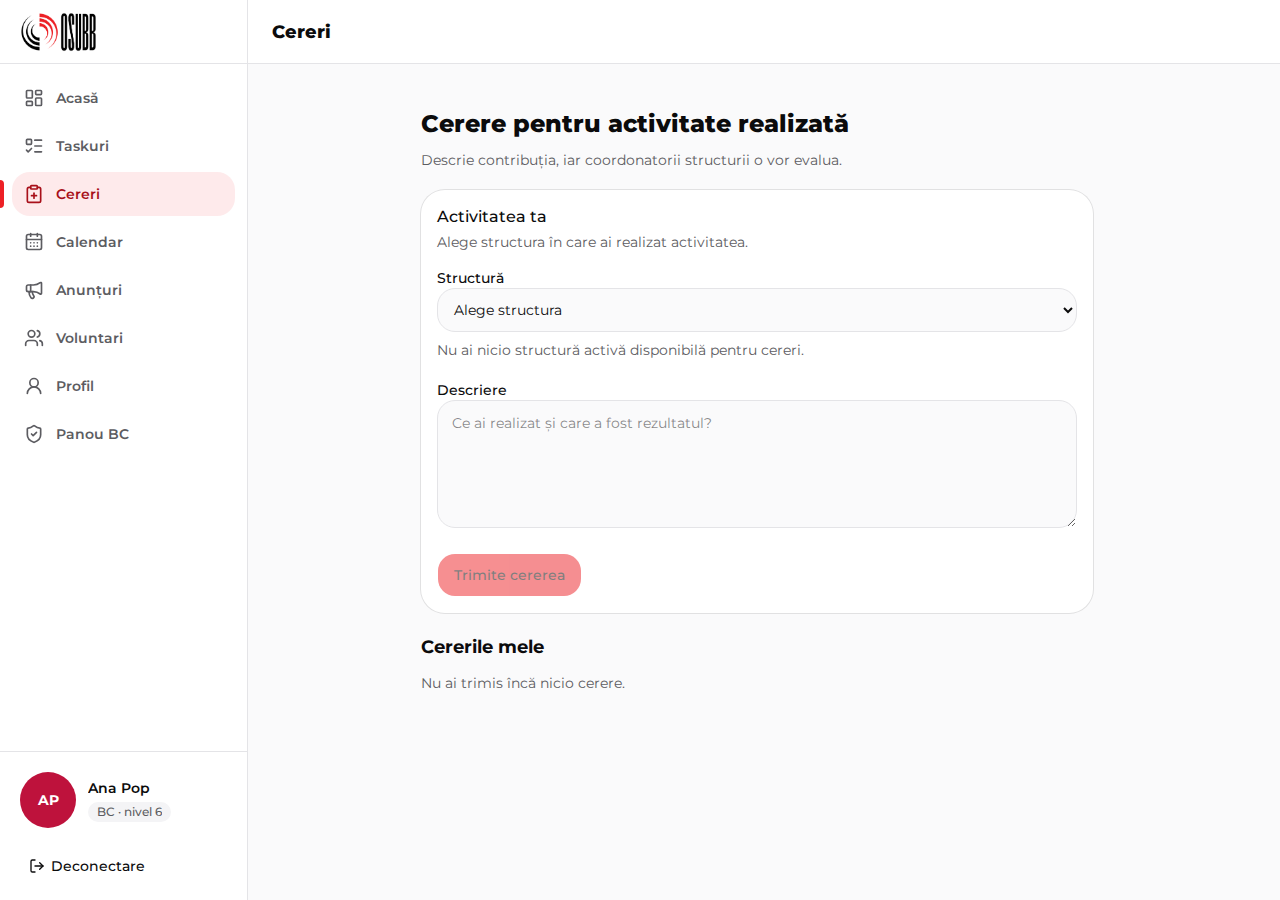
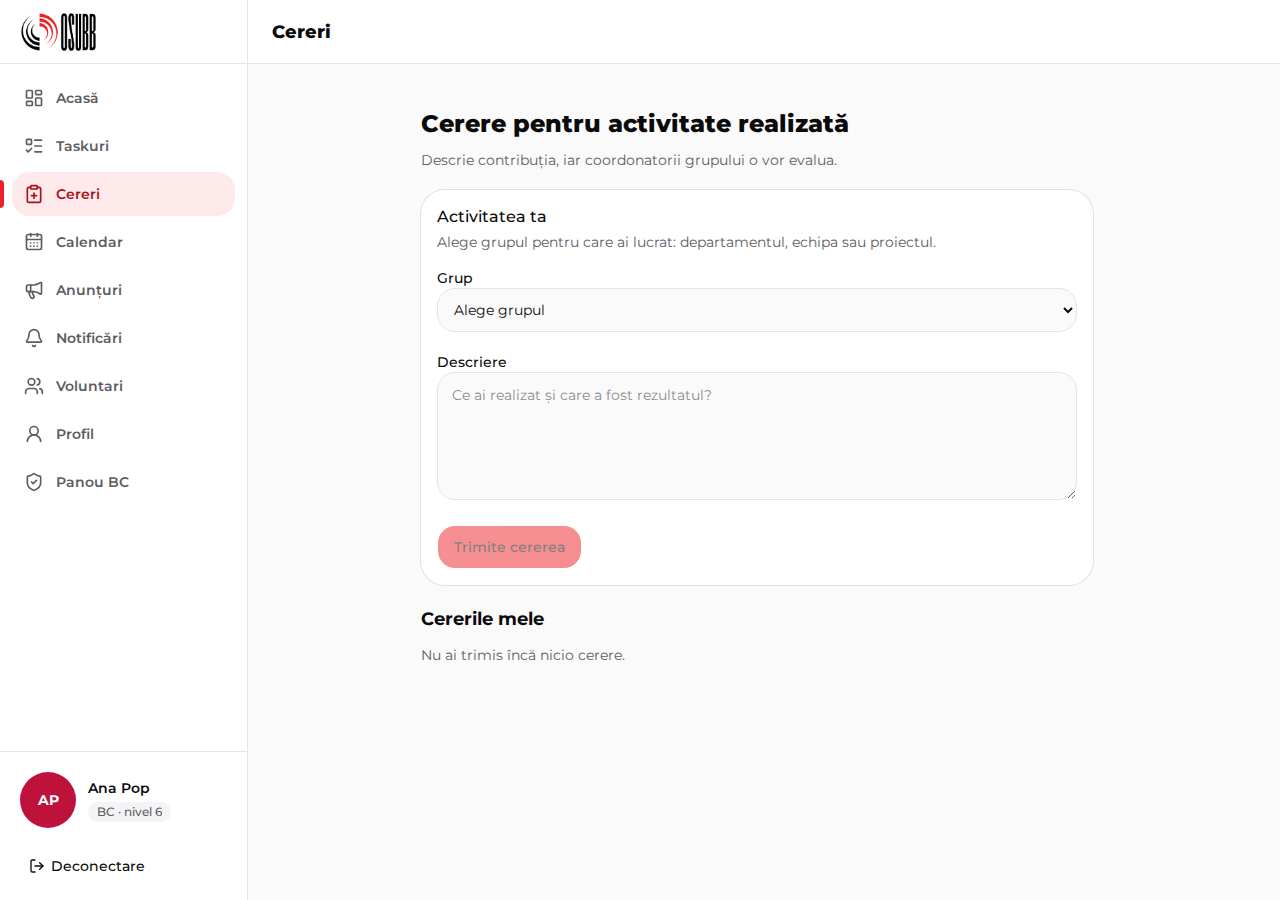
test(routing): refresh review evidence for complete branding and Group copy

diff --git a/docs/review/193/README.md b/docs/review/193/README.md
@@ -1,16 +1,21 @@
 # Routing browser verification — #193
 
-Verified 2026-09-19 against the configured production build of #545, commit
-`34b14d9`. This PR stacks on #545 because the original browser check found that
-signed-out deep links discarded their destination; #537 records that defect.
-The fix belongs to #545, while this PR contains verification evidence only.
+Updated 2026-09-21 against the production build of the review fixes at
+`0aa7371`. The deep-link fix from #545 is now on `main`.
+
+The review corrections replace the clipped simplified mobile mark with the
+complete approved principal logo in both themes. The Request form now says
+**Grup** and explains it as the department, team, or project the Member worked
+for; the selector references that explanation for assistive technology. The
+query and submission behavior are unchanged.
 
 ## Method
 
 Chromium headless with Playwright, at 1280×900 and 390×900 CSS pixels. The real
 application, guards, React Router, navigation components and Supabase client ran.
 Deterministic browser storage supplied signed-out, authenticated/no-profile,
-Voluntar and BC sessions; network interception supplied public fixture data.
+Voluntar and BC sessions; network interception supplied public fixture data, including an Educațional
+Department membership so the Request Group selector has an available option.
 The OTP request was intercepted rather than sending an email. Service workers
 were blocked to isolate routing from PWA caching and preserve network fixtures.
 This verifies browser navigation, not the email provider or backend RLS.
@@ -47,5 +52,23 @@ Normal resource cancellations caused by navigating away were observed as
 - [Mobile Voluntar requests screen](390-voluntar.png)
 - [Mobile login confirmation](390-signed-out.png)
 
-The associated fix also passes 34 focused route/login/callback tests and the
-full frontend suite and coverage gates in GitHub CI.
+## Visual review checks
+
+`visual-checks.json` records checks at 320, 390, and 1280 CSS pixels in light
+and dark themes. Each visible logo uses the complete 889×459 principal asset,
+preserves its aspect ratio, and fits inside its container. The Group explanation
+is visible, and the fixture Department can be selected.
+
+- [Narrow mobile, light](320-light-requests.png)
+- [Narrow mobile, dark](320-dark-requests.png)
+- [Mobile drawer, light](390-light-menu.png)
+- [Mobile drawer, dark](390-dark-menu.png)
+
+The existing shell and Request component tests were updated before the fix:
+three assertions failed on the old asset and wording, then all 12 focused tests
+passed with the fix. The Request test also checks the selector's accessible
+description.
+
+Local validation: typecheck, lint, formatting, all 61 test files / 407 tests,
+and the production build passed. All 16 routing checks passed without console
+errors or router warnings; all six viewport/theme visual checks passed.
